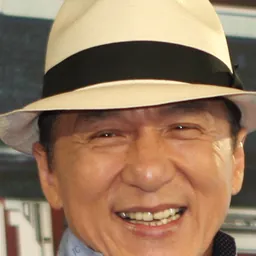
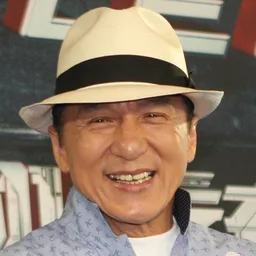
صور المشاهير واللاعبين بمساحة أوسع بالدائرة، وصورتين جديدة لدوا ليبا

diff --git a/index.html b/index.html
@@ -32,11 +32,11 @@
 <link rel="preconnect" href="https://fonts.googleapis.com">
 <link rel="preconnect" href="https://fonts.gstatic.com" crossorigin>
 <link href="https://fonts.googleapis.com/css2?family=Big+Shoulders+Display:wght@700;800;900&family=IBM+Plex+Sans+Arabic:wght@400;500;600;700&family=Lalezar&display=swap" rel="stylesheet">
-<link rel="stylesheet" href="css/style.css?v=202611201942">
-<link rel="stylesheet" href="css/draw.css?v=202611201942">
-<link rel="stylesheet" href="css/hawamir.css?v=202611201942">
-<link rel="stylesheet" href="css/sadq.css?v=202611201942">
-<link rel="stylesheet" href="css/rules.css?v=202611201942">
+<link rel="stylesheet" href="css/style.css?v=202611201955">
+<link rel="stylesheet" href="css/draw.css?v=202611201955">
+<link rel="stylesheet" href="css/hawamir.css?v=202611201955">
+<link rel="stylesheet" href="css/sadq.css?v=202611201955">
+<link rel="stylesheet" href="css/rules.css?v=202611201955">
 </head>
 <body>
 
@@ -628,32 +628,32 @@
 <div id="overlay-root"></div>
 <canvas class="confetti-canvas" id="confetti"></canvas>
 
-<script src="data/tags.js?v=202611201942"></script>
-<script src="data/cards.js?v=202611201942"></script>
-<script src="data/memes.js?v=202611201942"></script>
-<script src="data/hawamir.js?v=202611201942"></script>
-<script src="data/sadq.js?v=202611201942"></script>
-<script src="js/vendor/peerjs.min.js?v=202611201942"></script>
-<script src="js/ice.js?v=202611201942"></script>
-<script src="js/vendor/qrcode.min.js?v=202611201942"></script>
-<script src="js/busy.js?v=202611201942"></script>
-<script src="js/lazy.js?v=202611201942"></script>
-<script src="js/avatars.js?v=202611201942"></script>
-<script src="js/core.js?v=202611201942"></script>
-<script src="js/config.js?v=202611201942"></script>
-<script src="js/account.js?v=202611201942"></script>
-<script src="js/telemetry.js?v=202611201942"></script>
-<script src="js/lobby.js?v=202611201942"></script>
-<script src="js/net.js?v=202611201942"></script>
-<script src="js/owner.js?v=202611201942"></script>
-<script src="js/stats.js?v=202611201942"></script>
-<script src="js/cardfx.js?v=202611201942"></script>
-<script src="js/alf.js?v=202611201942"></script>
-<script src="js/draw.js?v=202611201942"></script>
-<script src="js/khaliya.js?v=202611201942"></script>
-<script src="js/rasm.js?v=202611201942"></script>
-<script src="js/hawamir.js?v=202611201942"></script>
-<script src="js/sadq.js?v=202611201942"></script>
-<script src="js/rules.js?v=202611201942"></script>
+<script src="data/tags.js?v=202611201955"></script>
+<script src="data/cards.js?v=202611201955"></script>
+<script src="data/memes.js?v=202611201955"></script>
+<script src="data/hawamir.js?v=202611201955"></script>
+<script src="data/sadq.js?v=202611201955"></script>
+<script src="js/vendor/peerjs.min.js?v=202611201955"></script>
+<script src="js/ice.js?v=202611201955"></script>
+<script src="js/vendor/qrcode.min.js?v=202611201955"></script>
+<script src="js/busy.js?v=202611201955"></script>
+<script src="js/lazy.js?v=202611201955"></script>
+<script src="js/avatars.js?v=202611201955"></script>
+<script src="js/core.js?v=202611201955"></script>
+<script src="js/config.js?v=202611201955"></script>
+<script src="js/account.js?v=202611201955"></script>
+<script src="js/telemetry.js?v=202611201955"></script>
+<script src="js/lobby.js?v=202611201955"></script>
+<script src="js/net.js?v=202611201955"></script>
+<script src="js/owner.js?v=202611201955"></script>
+<script src="js/stats.js?v=202611201955"></script>
+<script src="js/cardfx.js?v=202611201955"></script>
+<script src="js/alf.js?v=202611201955"></script>
+<script src="js/draw.js?v=202611201955"></script>
+<script src="js/khaliya.js?v=202611201955"></script>
+<script src="js/rasm.js?v=202611201955"></script>
+<script src="js/hawamir.js?v=202611201955"></script>
+<script src="js/sadq.js?v=202611201955"></script>
+<script src="js/rules.js?v=202611201955"></script>
 </body>
 </html>

diff --git a/admin.html b/admin.html
@@ -11,8 +11,8 @@
 <link rel="preconnect" href="https://fonts.googleapis.com">
 <link rel="preconnect" href="https://fonts.gstatic.com" crossorigin>
 <link href="https://fonts.googleapis.com/css2?family=Big+Shoulders+Display:wght@700;800;900&family=IBM+Plex+Sans+Arabic:wght@400;500;600;700&family=Lalezar&display=swap" rel="stylesheet">
-<link rel="stylesheet" href="css/style.css?v=202611201942">
-<link rel="stylesheet" href="css/admin.css?v=202611201942">
+<link rel="stylesheet" href="css/style.css?v=202611201955">
+<link rel="stylesheet" href="css/admin.css?v=202611201955">
 </head>
 <body>
 <main class="ad">
@@ -49,27 +49,27 @@
   </section>
 </main>
 
-<script src="data/questions.js?v=202611201942"></script>
-<script src="data/questions-2.js?v=202611201942"></script>
-<script src="data/questions-3.js?v=202611201942"></script>
-<script src="data/questions-4.js?v=202611201942"></script>
-<script src="data/questions-5.js?v=202611201942"></script>
-<script src="data/questions-6.js?v=202611201942"></script>
-<script src="data/questions-7.js?v=202611201942"></script>
-<script src="data/questions-8.js?v=202611201942"></script>
-<script src="data/charades.js?v=202611201942"></script>
-<script src="data/charades-2.js?v=202611201942"></script>
-<script src="data/challenges.js?v=202611201942"></script>
-<script src="data/challenges-2.js?v=202611201942"></script>
-<script src="data/cards.js?v=202611201942"></script>
-<script src="data/words.js?v=202611201942"></script>
-<script src="data/letters-1.js?v=202611201942"></script>
-<script src="data/letters-2.js?v=202611201942"></script>
-<script src="data/letters-3.js?v=202611201942"></script>
-<script src="data/letters-4.js?v=202611201942"></script>
-<script src="data/letters-hard-1.js?v=202611201942"></script>
-<script src="data/letters-hard-2.js?v=202611201942"></script>
-<script src="js/config.js?v=202611201942"></script>
-<script type="module" src="js/admin.js?v=202611201942"></script>
+<script src="data/questions.js?v=202611201955"></script>
+<script src="data/questions-2.js?v=202611201955"></script>
+<script src="data/questions-3.js?v=202611201955"></script>
+<script src="data/questions-4.js?v=202611201955"></script>
+<script src="data/questions-5.js?v=202611201955"></script>
+<script src="data/questions-6.js?v=202611201955"></script>
+<script src="data/questions-7.js?v=202611201955"></script>
+<script src="data/questions-8.js?v=202611201955"></script>
+<script src="data/charades.js?v=202611201955"></script>
+<script src="data/charades-2.js?v=202611201955"></script>
+<script src="data/challenges.js?v=202611201955"></script>
+<script src="data/challenges-2.js?v=202611201955"></script>
+<script src="data/cards.js?v=202611201955"></script>
+<script src="data/words.js?v=202611201955"></script>
+<script src="data/letters-1.js?v=202611201955"></script>
+<script src="data/letters-2.js?v=202611201955"></script>
+<script src="data/letters-3.js?v=202611201955"></script>
+<script src="data/letters-4.js?v=202611201955"></script>
+<script src="data/letters-hard-1.js?v=202611201955"></script>
+<script src="data/letters-hard-2.js?v=202611201955"></script>
+<script src="js/config.js?v=202611201955"></script>
+<script type="module" src="js/admin.js?v=202611201955"></script>
 </body>
 </html>

diff --git a/remote.html b/remote.html
@@ -28,12 +28,12 @@
 <link rel="preconnect" href="https://fonts.googleapis.com">
 <link rel="preconnect" href="https://fonts.gstatic.com" crossorigin>
 <link href="https://fonts.googleapis.com/css2?family=Big+Shoulders+Display:wght@700;800;900&family=IBM+Plex+Sans+Arabic:wght@400;500;600;700&family=Lalezar&display=swap" rel="stylesheet">
-<link rel="stylesheet" href="css/style.css?v=202611201942">
-<link rel="stylesheet" href="css/remote.css?v=202611201942">
-<link rel="stylesheet" href="css/hawamir.css?v=202611201942">
-<link rel="stylesheet" href="css/sadq.css?v=202611201942">
-<link rel="stylesheet" href="css/draw.css?v=202611201942">
-<link rel="stylesheet" href="css/rules.css?v=202611201942">
+<link rel="stylesheet" href="css/style.css?v=202611201955">
+<link rel="stylesheet" href="css/remote.css?v=202611201955">
+<link rel="stylesheet" href="css/hawamir.css?v=202611201955">
+<link rel="stylesheet" href="css/sadq.css?v=202611201955">
+<link rel="stylesheet" href="css/draw.css?v=202611201955">
+<link rel="stylesheet" href="css/rules.css?v=202611201955">
 </head>
 <body class="remote">
 
@@ -138,17 +138,17 @@
 <div class="r-status hidden" id="r-status"></div>
 <div class="r-sheet hidden" id="r-sheet"><div class="r-sheet-in" id="r-sheet-in"></div></div>
 
-<script src="js/vendor/peerjs.min.js?v=202611201942"></script>
-<script src="js/ice.js?v=202611201942"></script>
-<script src="data/cards.js?v=202611201942"></script>
-<script src="js/busy.js?v=202611201942"></script>
-<script src="js/config.js?v=202611201942"></script>
-<script src="js/avatars.js?v=202611201942"></script>
-<script src="js/account.js?v=202611201942"></script>
-<script src="js/lobby.js?v=202611201942"></script>
-<script src="js/telemetry.js?v=202611201942"></script>
-<script src="js/draw.js?v=202611201942"></script>
-<script src="js/rules.js?v=202611201942"></script>
-<script src="js/remote.js?v=202611201942"></script>
+<script src="js/vendor/peerjs.min.js?v=202611201955"></script>
+<script src="js/ice.js?v=202611201955"></script>
+<script src="data/cards.js?v=202611201955"></script>
+<script src="js/busy.js?v=202611201955"></script>
+<script src="js/config.js?v=202611201955"></script>
+<script src="js/avatars.js?v=202611201955"></script>
+<script src="js/account.js?v=202611201955"></script>
+<script src="js/lobby.js?v=202611201955"></script>
+<script src="js/telemetry.js?v=202611201955"></script>
+<script src="js/draw.js?v=202611201955"></script>
+<script src="js/rules.js?v=202611201955"></script>
+<script src="js/remote.js?v=202611201955"></script>
 </body>
 </html>

diff --git a/pick.html b/pick.html
@@ -8,8 +8,8 @@
 <script>(function(){var t=null;try{t=localStorage.getItem('dahoom_theme');}catch(e){}if(t!=='day'&&t!=='night'){t=(window.matchMedia&&matchMedia('(prefers-color-scheme: light)').matches)?'day':'night';}document.documentElement.setAttribute('data-theme',t);})();</script>
 <link rel="preconnect" href="https://fonts.googleapis.com">
 <link href="https://fonts.googleapis.com/css2?family=Big+Shoulders+Display:wght@700;800;900&family=IBM+Plex+Sans+Arabic:wght@400;500;600;700&family=Lalezar&display=swap" rel="stylesheet">
-<link rel="stylesheet" href="css/style.css?v=202611201942">
-<link rel="stylesheet" href="css/pick.css?v=202611201942">
+<link rel="stylesheet" href="css/style.css?v=202611201955">
+<link rel="stylesheet" href="css/pick.css?v=202611201955">
 </head>
 <body class="pk">
 <header class="pk-head">
@@ -33,11 +33,11 @@
 <main class="pk-main" id="pk-main"></main>
 <textarea id="pk-out" class="pk-out hidden" readonly></textarea>
 
-<script src="data/cards.js?v=202611201942"></script>
-<script src="data/memes.js?v=202611201942"></script>
-<script src="data/pick-data.js?v=202611201942"></script>
-<script src="js/avatars.js?v=202611201942"></script>
-<script src="js/core.js?v=202611201942"></script>
-<script src="js/pick.js?v=202611201942"></script>
+<script src="data/cards.js?v=202611201955"></script>
+<script src="data/memes.js?v=202611201955"></script>
+<script src="data/pick-data.js?v=202611201955"></script>
+<script src="js/avatars.js?v=202611201955"></script>
+<script src="js/core.js?v=202611201955"></script>
+<script src="js/pick.js?v=202611201955"></script>
 </body>
 </html>

diff --git a/profile.html b/profile.html
@@ -11,8 +11,8 @@
 <link rel="preconnect" href="https://fonts.googleapis.com">
 <link rel="preconnect" href="https://fonts.gstatic.com" crossorigin>
 <link href="https://fonts.googleapis.com/css2?family=Big+Shoulders+Display:wght@700;800;900&family=IBM+Plex+Sans+Arabic:wght@400;500;600;700&family=Lalezar&display=swap" rel="stylesheet">
-<link rel="stylesheet" href="css/style.css?v=202611201942">
-<link rel="stylesheet" href="css/profile.css?v=202611201942">
+<link rel="stylesheet" href="css/style.css?v=202611201955">
+<link rel="stylesheet" href="css/profile.css?v=202611201955">
 </head>
 <body class="pf-page">
 
@@ -31,10 +31,10 @@
 
 <noscript><p class="pf-main muted">الصفحة تحتاج جافاسكربت.</p></noscript>
 
-<script src="js/busy.js?v=202611201942"></script>
-<script src="js/config.js?v=202611201942"></script>
-<script src="js/avatars.js?v=202611201942"></script>
-<script src="js/account.js?v=202611201942"></script>
-<script src="js/profile.js?v=202611201942"></script>
+<script src="js/busy.js?v=202611201955"></script>
+<script src="js/config.js?v=202611201955"></script>
+<script src="js/avatars.js?v=202611201955"></script>
+<script src="js/account.js?v=202611201955"></script>
+<script src="js/profile.js?v=202611201955"></script>
 </body>
 </html>

diff --git a/js/avatars.js b/js/avatars.js
@@ -11,7 +11,7 @@
     { id:'cute', name:'لطيفين', list:['capybara','chiikawa','hamtaro','pochita','baby_yoda','shiba','kitten','puppy','red_panda','panda','quokka','sea_otter','fennec','bunny','hedgehog','owl','penguins'] },
     { id:'vibes', name:'أجواء', list:['full_moon','sunset_sea','sakura','starry_night','great_wave','aurora','milky_way','mountain_lake','tokyo_night','neon_city','lavender','tulip','sunflower','latte'] },
     { id:'gulf', name:'خليجي', list:['saudi_smile','saudi_smirk','falcon','arabian_horse','camel','dallah','palms','dunes','alula','edge_of_world','riyadh_night'] },
-    { id:'stars', name:'مشاهير', list:['dua_lipa','keanu_reeves','tom_holland','mrbeast','jackie_chan','mohammed_abdu'] },
+    { id:'stars', name:'مشاهير', list:['dua_lipa','dua_lipa_2','keanu_reeves','tom_holland','mrbeast','jackie_chan','mohammed_abdu'] },
     { id:'sports', name:'رياضة', list:['ronaldo','messi','salah','benzema','mbappe','salem_aldawsari','football','stadium'] },
     { id:'games', name:'ألعاب', list:['mario','sonic','pikachu','eevee','kirby','link','steve','creeper','pacman','master_chief','barbarian'] },
   ];

diff --git a/privacy.html b/privacy.html
@@ -13,8 +13,8 @@
 <link rel="preconnect" href="https://fonts.googleapis.com">
 <link rel="preconnect" href="https://fonts.gstatic.com" crossorigin>
 <link href="https://fonts.googleapis.com/css2?family=IBM+Plex+Sans+Arabic:wght@400;500;600;700&family=Lalezar&display=swap" rel="stylesheet">
-<link rel="stylesheet" href="css/style.css?v=202611201942">
-<link rel="stylesheet" href="css/legal.css?v=202611201942">
+<link rel="stylesheet" href="css/style.css?v=202611201955">
+<link rel="stylesheet" href="css/legal.css?v=202611201955">
 </head>
 <body>
 <main class="legal">

diff --git a/terms.html b/terms.html
@@ -13,8 +13,8 @@
 <link rel="preconnect" href="https://fonts.googleapis.com">
 <link rel="preconnect" href="https://fonts.gstatic.com" crossorigin>
 <link href="https://fonts.googleapis.com/css2?family=IBM+Plex+Sans+Arabic:wght@400;500;600;700&family=Lalezar&display=swap" rel="stylesheet">
-<link rel="stylesheet" href="css/style.css?v=202611201942">
-<link rel="stylesheet" href="css/legal.css?v=202611201942">
+<link rel="stylesheet" href="css/style.css?v=202611201955">
+<link rel="stylesheet" href="css/legal.css?v=202611201955">
 </head>
 <body>
 <main class="legal">

diff --git a/assets/avatars/SOURCES.md b/assets/avatars/SOURCES.md
@@ -1,6 +1,6 @@
 # مصادر صور اللاعبين
 
-سطر لكل صورة: `الاسم` — المصدر — الرخصة. الصور مقصوصة مربع 256×256 ومحوّلة WebP.
+سطر لكل صورة: `الاسم` — المصدر — الرخصة. الصور مقصوصة مربع 256×256 ومحوّلة WebP. صور المشاهير واللاعبين انقصّت من جديد (2026-11-20) بمساحة أوسع حول الوجه عشان تجي زينة بالدائرة.
 صور Wikimedia Commons بالرخصة المذكورة (CC BY / CC BY-SA تتطلب ذكر المصوّر — مذكور هنا). صور شخصيات الأنمي والألعاب من ويكيات المعجبين (Fandom) وحقوقها لأصحابها، مثل صور الأنمي السابقة.
 الصور القديمة اللي ما تغيّرت انضافت قبل وما انحفظ مصدرها.
 
@@ -137,7 +137,8 @@ Please cred (2012-12-31) — CC BY-SA 3.0
 
 ## مشاهير
 
-- `dua_lipa` — https://commons.wikimedia.org/wiki/File:Dua_Lipa_at_Berlin_Film_Festival_2026_69806_(cropped).jpg — Harald Krichel (2026-02-14) — CC BY-SA 4.0
+- `dua_lipa` — صورة أرسلها صاحب المنصة (2026-11-20)
+- `dua_lipa_2` — صورة أرسلها صاحب المنصة (2026-11-20)
 - `keanu_reeves` — https://commons.wikimedia.org/wiki/File:Keanu_Reeves_(crop_and_levels)_(cropped).jpg — Marybel Le Pape (2015-09-04) — CC BY-SA 4.0
 - `tom_holland` — https://commons.wikimedia.org/wiki/File:Tom_Holland_during_pro-am_Wentworth_golf_club_2023-2_(cropped).jpg — ChristopherJClarke (2023-09-13) — CC BY-SA 4.0
 - `mrbeast` — https://commons.wikimedia.org/wiki/File:MrBeast_2023_(cropped).jpg — Steven Khan (2023-09-10) — CC BY 4.0
